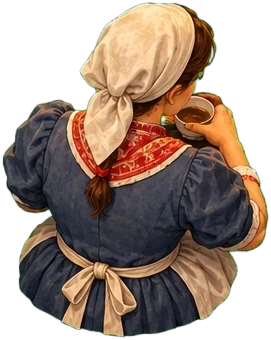
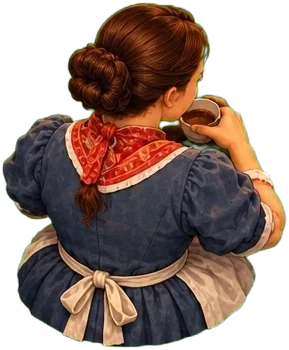
Kafana: lik 10 sedi leđima sa istom frizurom (ogledalo slike okrenute ulevo)
Claude-Session: https://claude.ai/code/session_014iQ1WRdnLPSdR8xmUTa1u2

diff --git a/index.html b/index.html
@@ -223,7 +223,7 @@
 <script src="js/data/perspective-master.js?v=3.01"></script>
 <script src="js/pantry-camera.js?v=3.12"></script>
 <script src="js/pantry-scene.js?v=3.11"></script>
-<script src="js/tavern-scene.js?v=16"></script>
+<script src="js/tavern-scene.js?v=17"></script>
 <script src="js/tavern-calibration.js?v=4"></script>
 <script src="js/game.js?v=3.32"></script>
 <script src="js/kaca.js?v=9"></script>
